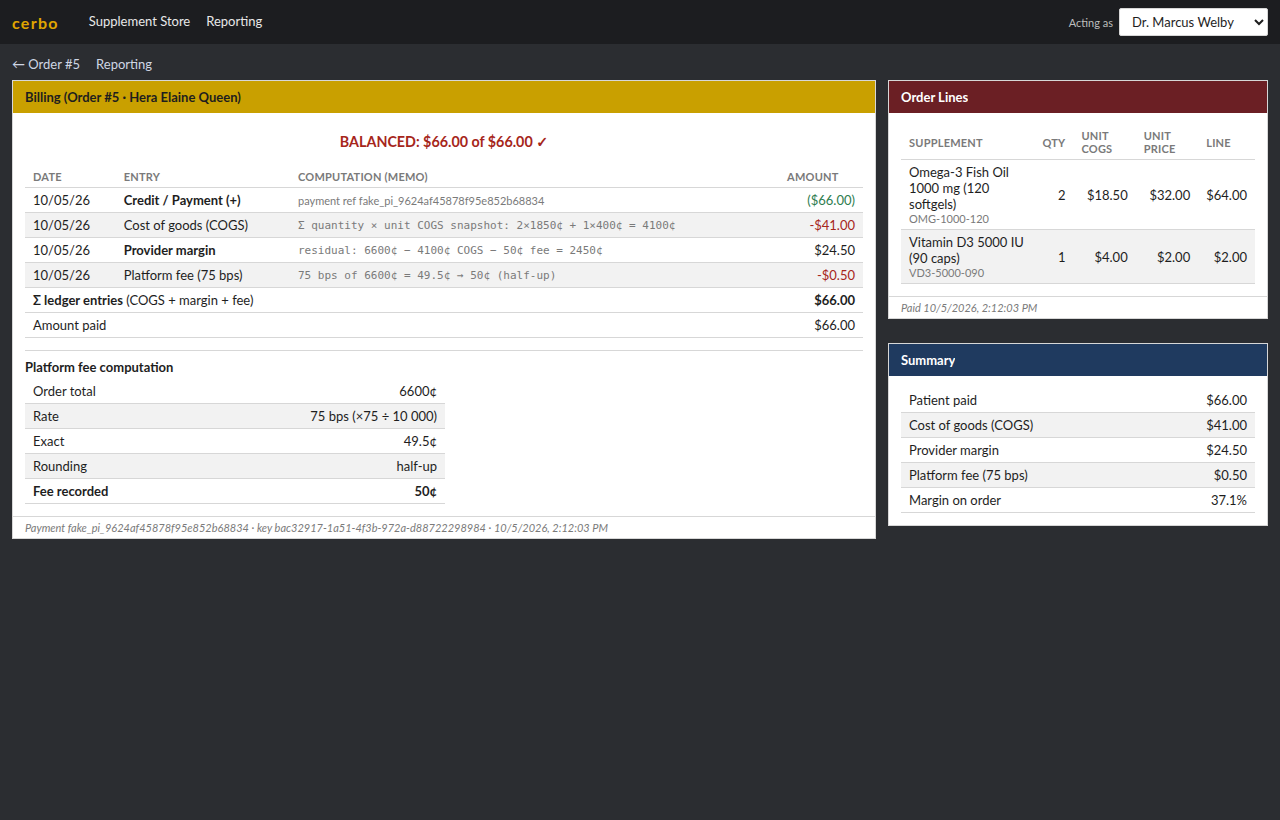
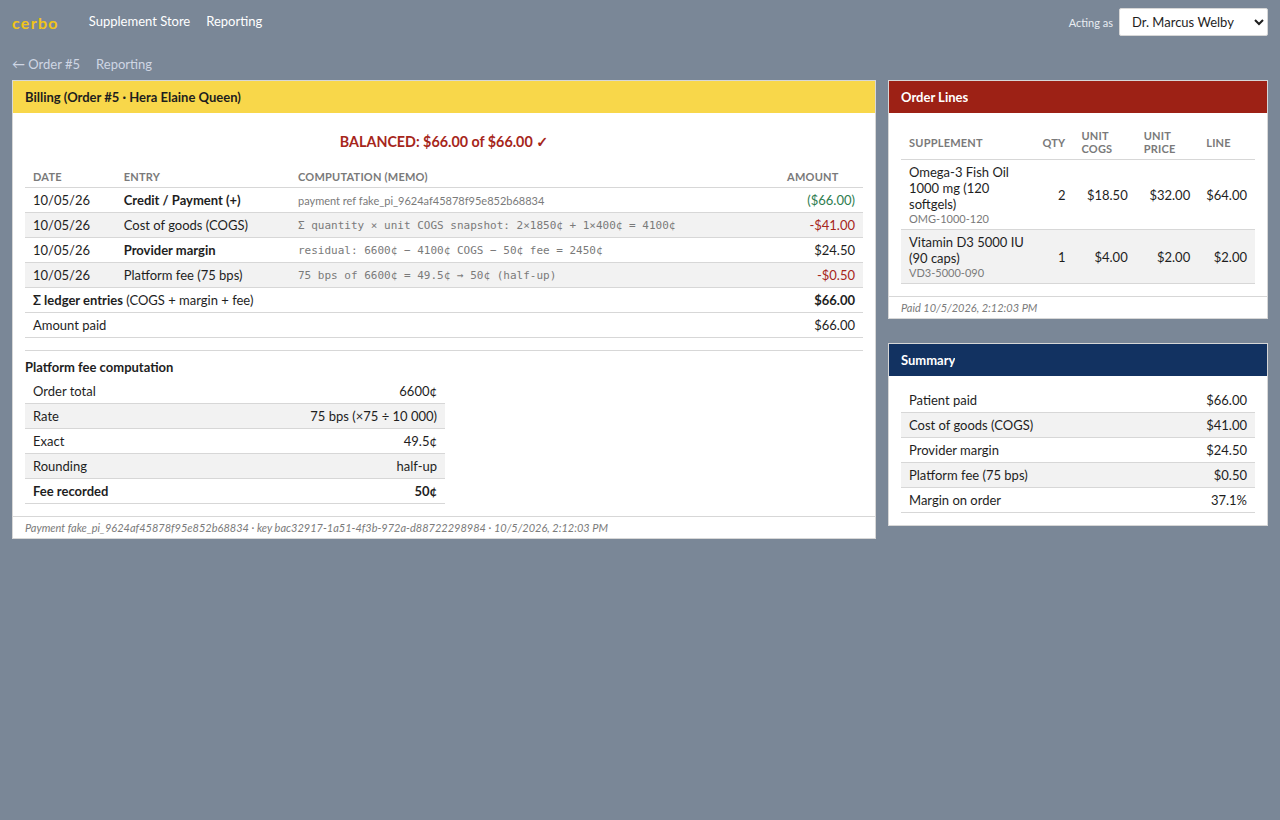
ui: Cerbo page background is slate gray-blue (#7a8797), not charcoal; panel palette sampled from the reference captures
Sampled from docs/cerbo-ui-reference/patient-chart-full.jpg: page/nav #7a8797, headers green
#40641a, navy #123261, maroon #9d2115, black/gray #333333, purple #79127d, orange #db8e34,
yellow #f8d74a (dark text). DESIGN-NOTES corrected (it said 'dark charcoal'). Screenshots refreshed.

diff --git a/web/src/styles/cerbo.css b/web/src/styles/cerbo.css
@@ -12,22 +12,22 @@
 
 :root {
   /* Page chrome */
-  --cerbo-bg: #2b2d31;
+  --cerbo-bg: #7a8797; /* slate gray-blue, sampled from the Storylane captures (not charcoal) */
   --cerbo-panel-bg: #ffffff;
   --cerbo-panel-border: #d7d7d7;
-  --cerbo-nav-bg: #1c1d20;
-  --cerbo-nav-fg: #e8e8e8;
-  --cerbo-nav-active: #e0a500;
+  --cerbo-nav-bg: #7a8797; /* same slate as the page; Cerbo's nav has no separate bar colour */
+  --cerbo-nav-fg: #ffffff;
+  --cerbo-nav-active: #f0c419; /* amber underline / badge yellow */
 
-  /* Panel header palette (DESIGN-NOTES.md) */
-  --cerbo-header-green: #3f7d3f;
-  --cerbo-header-maroon: #6b1f24;
-  --cerbo-header-navy: #1f3a5f;
-  --cerbo-header-black: #1a1a1a;
-  --cerbo-header-purple: #6a2e6a;
-  --cerbo-header-orange: #b35c00;
-  --cerbo-header-amber: #c9a000;
-  --cerbo-header-gray: #555861;
+  /* Panel header palette — sampled from docs/cerbo-ui-reference/patient-chart-full.jpg */
+  --cerbo-header-green: #40641a;
+  --cerbo-header-maroon: #9d2115;
+  --cerbo-header-navy: #123261;
+  --cerbo-header-black: #333333;
+  --cerbo-header-purple: #79127d;
+  --cerbo-header-orange: #db8e34;
+  --cerbo-header-amber: #f8d74a;
+  --cerbo-header-gray: #333333;
   --cerbo-header-fg: #ffffff;
 
   /* Content colors */

diff --git a/web/src/App.vue b/web/src/App.vue
@@ -61,7 +61,7 @@ function onProviderChange(e: Event): void {
   gap: 6px;
 }
 .cerbo-nav__acting .cerbo-muted {
-  color: #bdbdbd;
+  color: #e9edf2;
 }
 .cerbo-main {
   padding: 12px;

diff --git a/docs/cerbo-ui-reference/DESIGN-NOTES.md b/docs/cerbo-ui-reference/DESIGN-NOTES.md
@@ -6,8 +6,9 @@ supplement-store screens feel native to Cerbo. We are not copying their code or 
 what's needed for the "lives inside the EHR" illusion in a take-home exercise.
 
 ## Overall chrome
-- Dark charcoal page background; content lives in dense white panels ("blocks") with 1px borders.
-- Top nav bar, dark, with yellow/amber active underlines: Scheduling · Admin · Reporting ·
+- Slate gray-blue page background (#7a8797, sampled from the captures — earlier drafts of these notes
+  said "dark charcoal", which was wrong); content lives in dense white panels ("blocks") with 1px borders.
+- Top nav on the same slate as the page (no separate bar), white text, yellow/amber active underlines: Scheduling · Admin · Reporting ·
   Tasks (badge) · Generate · My Links · Pt Portal · Settings, user initials, patient search box right.
 - Left rail on chart view: patient photo, name + alias ("Zeus King ('Jupiter') #21 - 54 Years"),
   Patient Information block, status strips (red "Opted Out of AC", black "Cash Pay", gray "Hormone").
